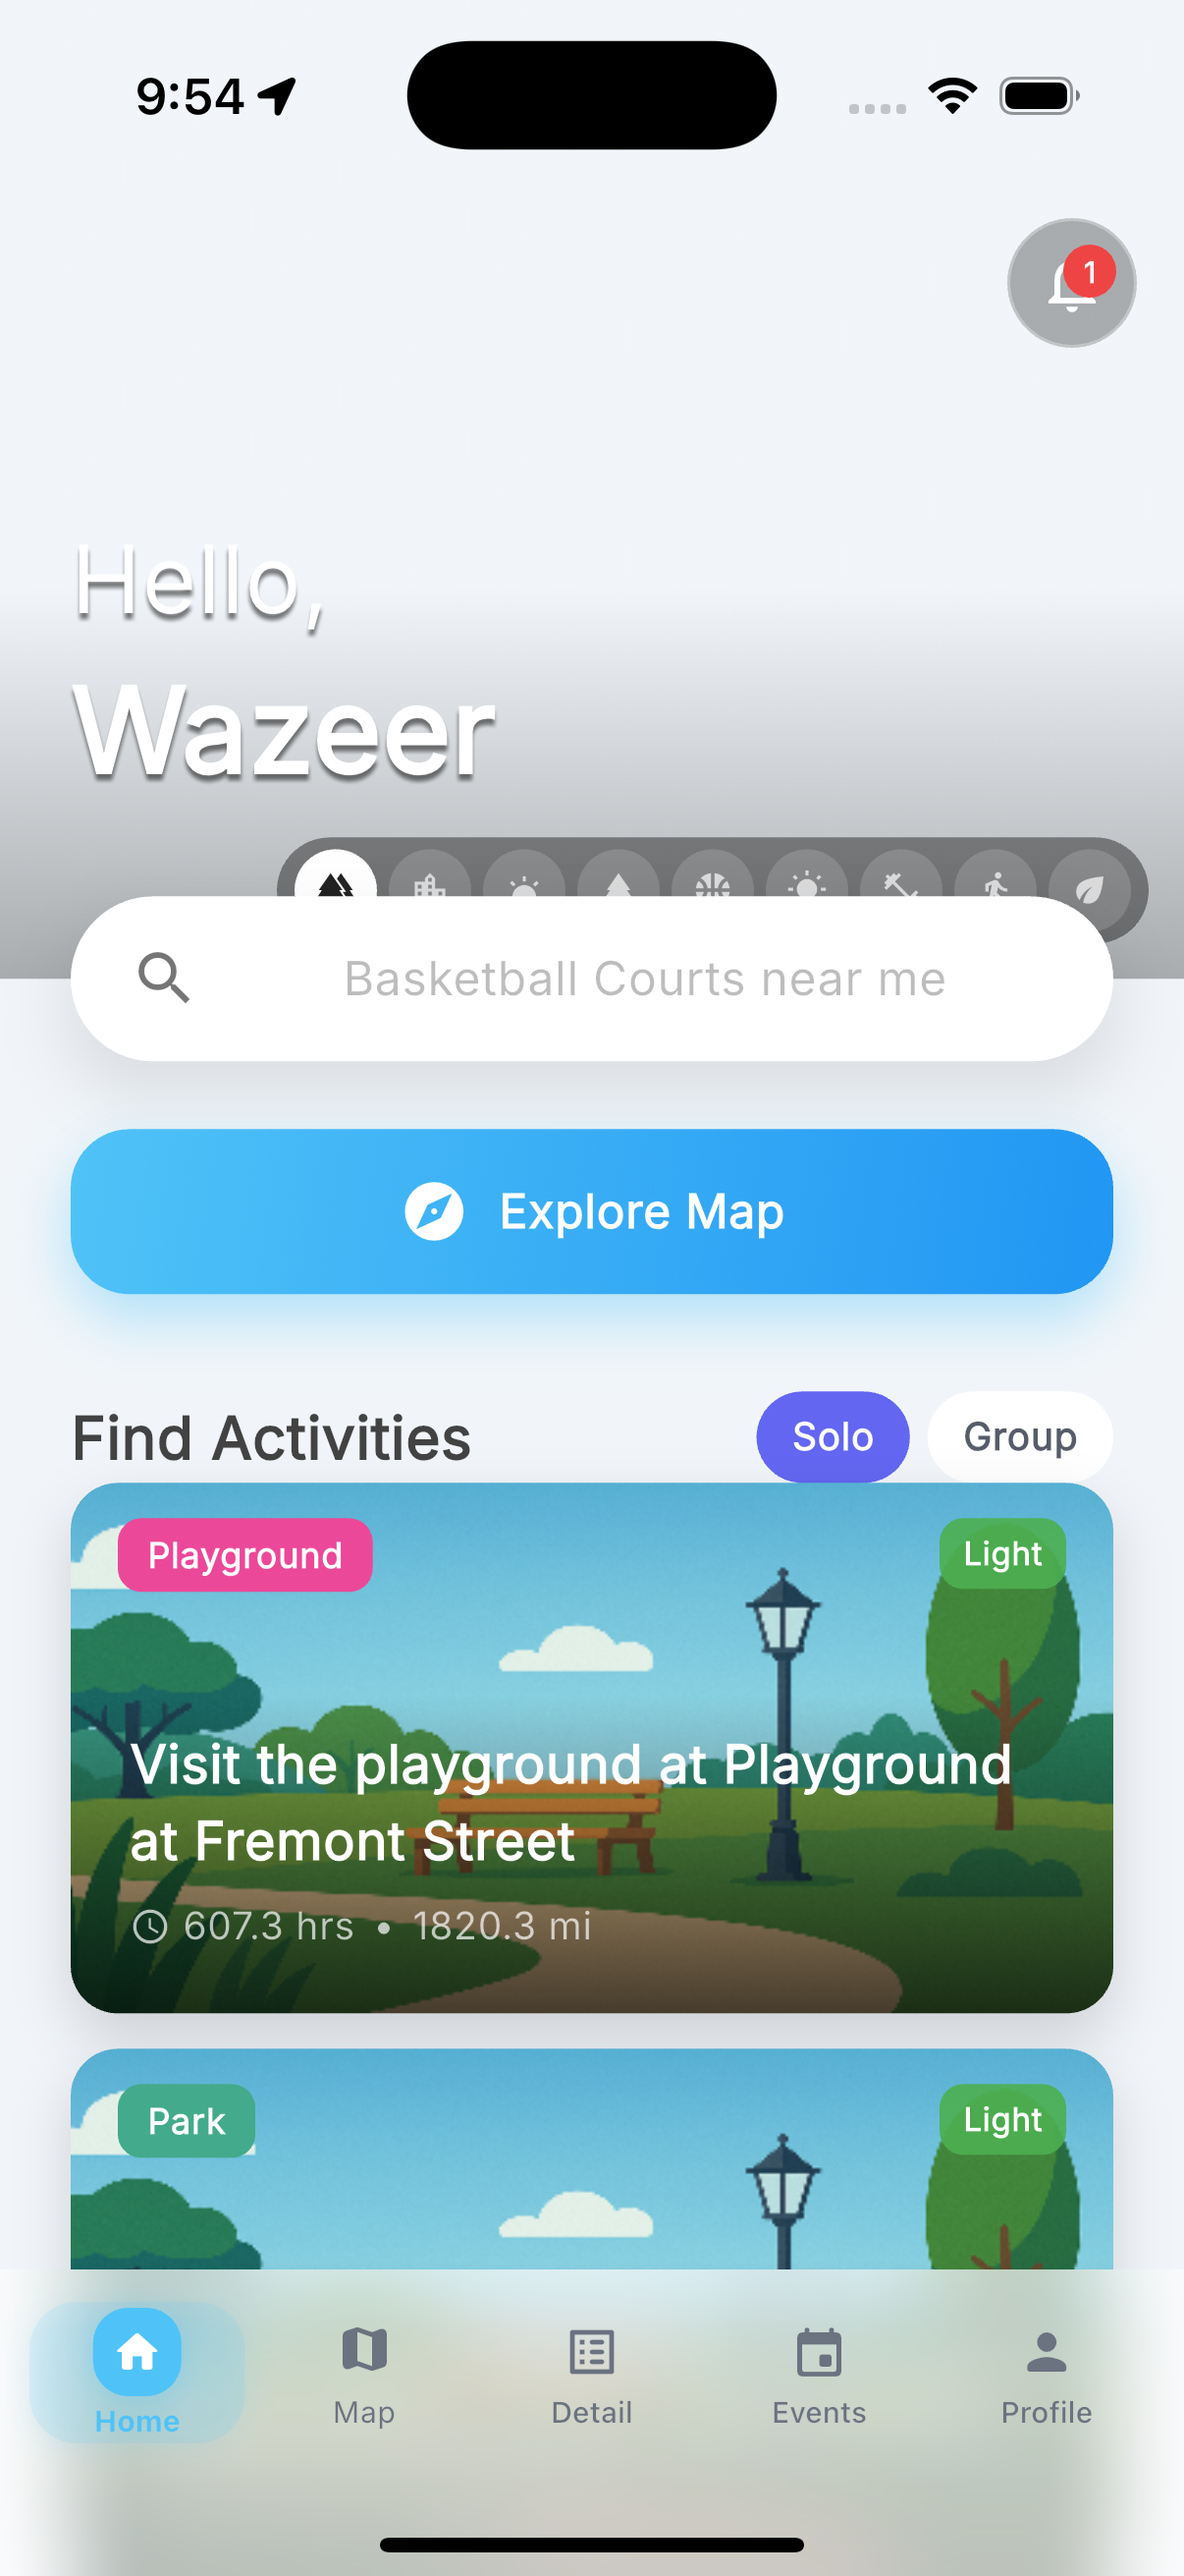
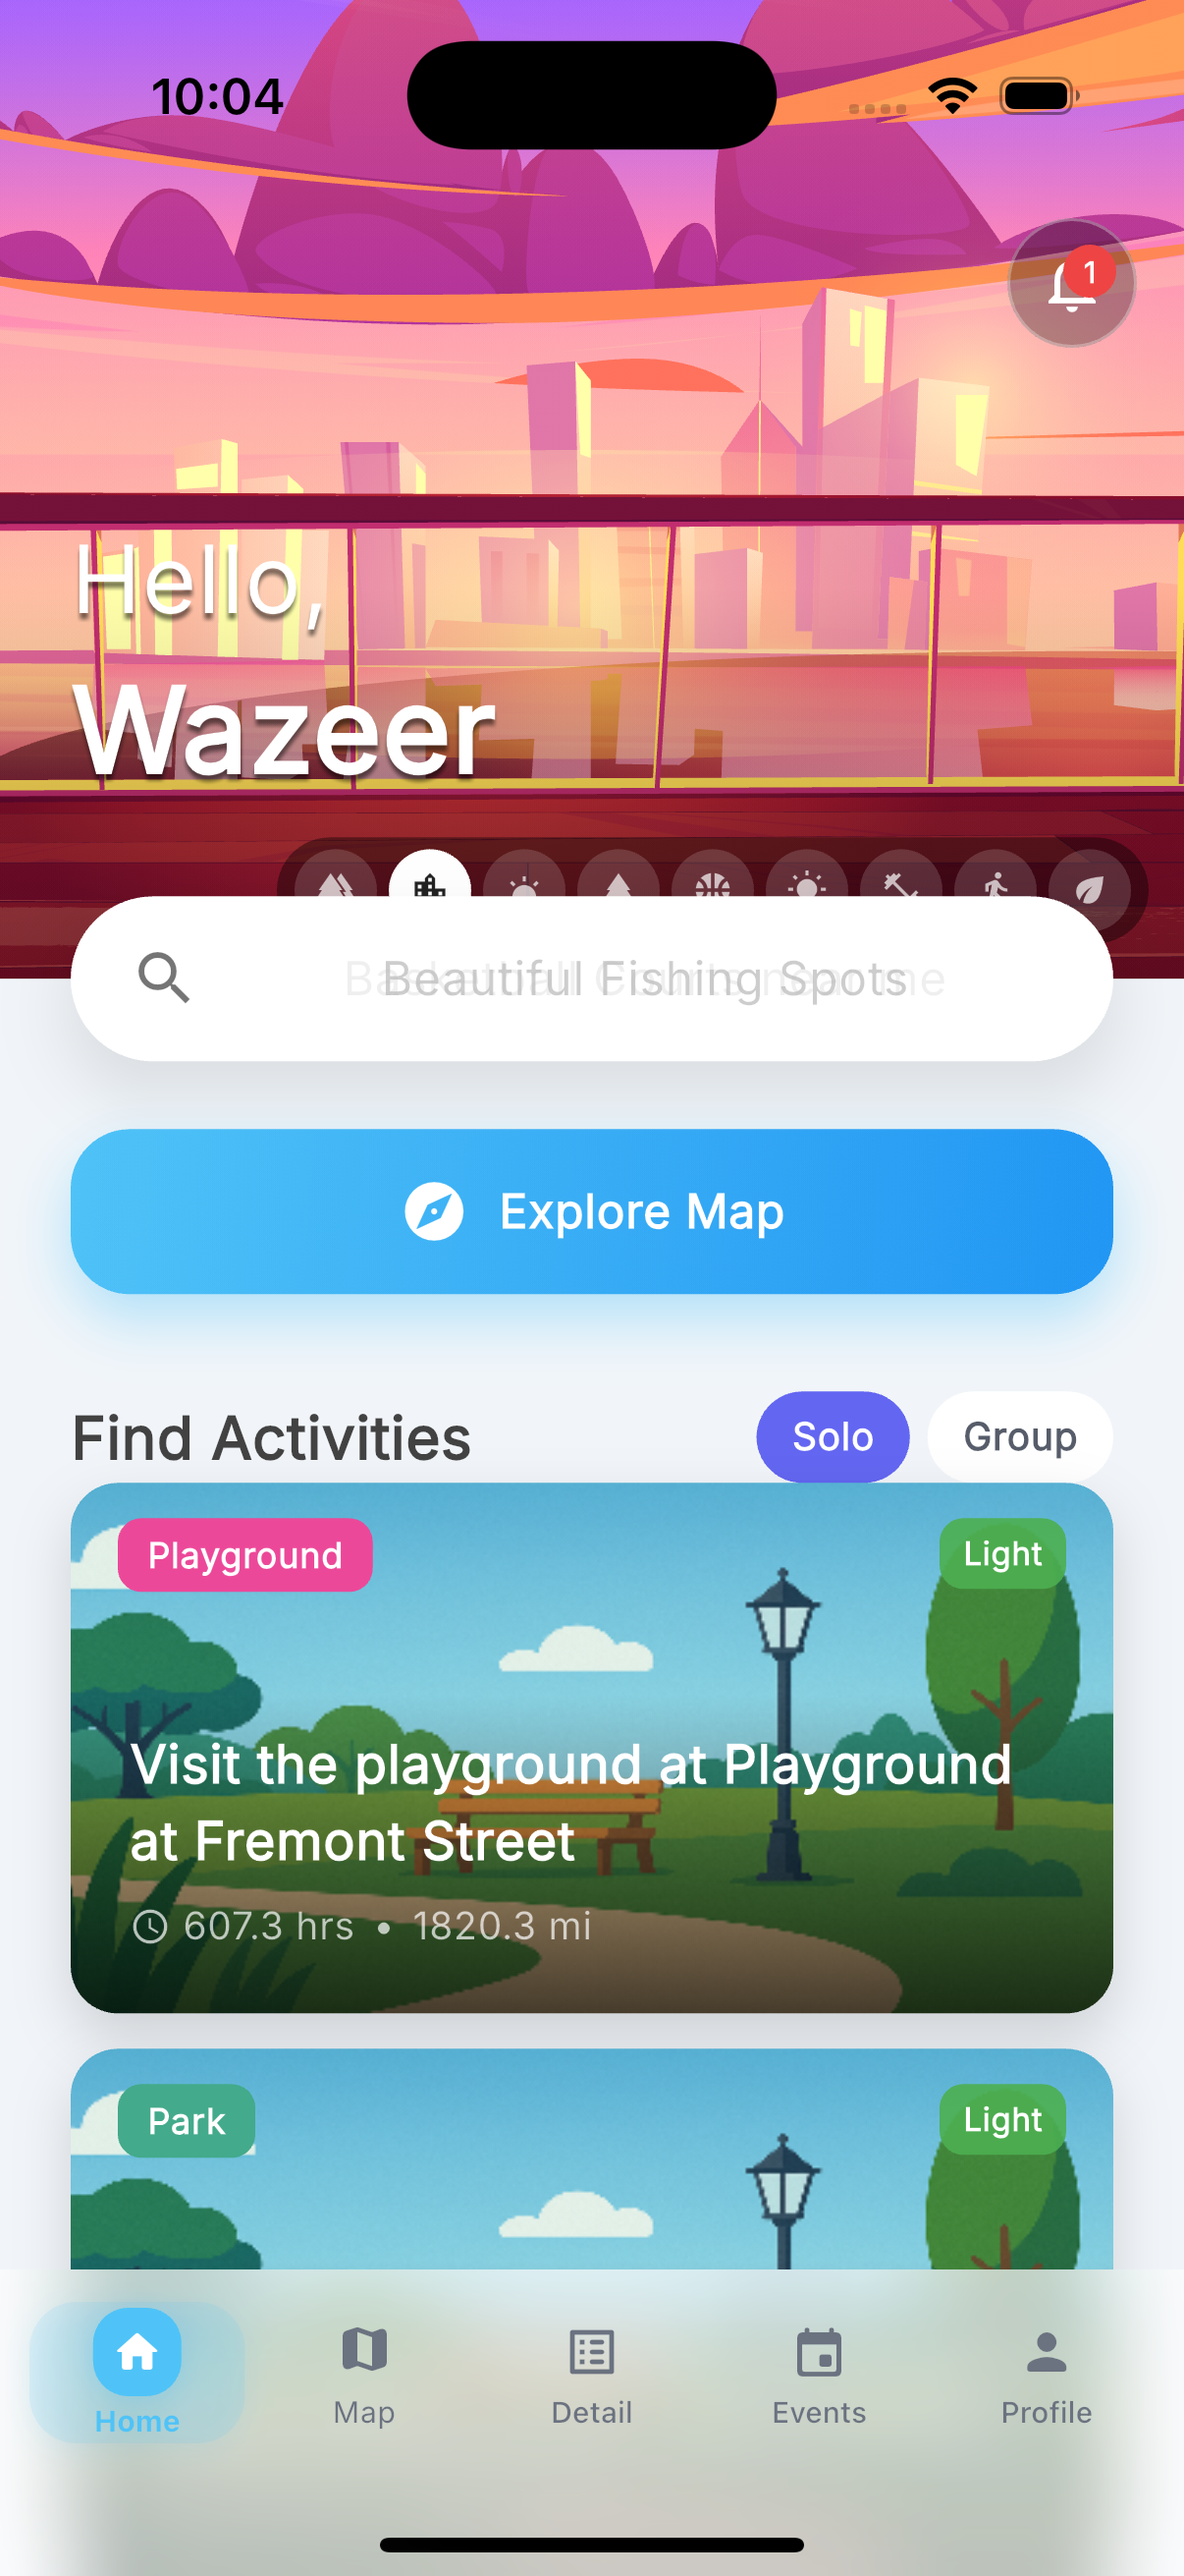
Update home screenshot (sunset cityscape), fix Gemini version to 3 Flash

diff --git a/README.md b/README.md
@@ -38,7 +38,7 @@ TRAX helps users discover 200+ sports facilities across 50+ parks — basketball
 
 - **Interactive Map** — Custom-styled Google Maps with emoji-based markers, clustering at zoom levels, and animated home location indicator
 - **Smart Filtering** — Filter by 15+ activity types (basketball, tennis, pickleball, soccer, volleyball, golf, swimming, biking, fishing, kayaking, etc.) with real-time marker updates
-- **AI-Enhanced Details** — Facility descriptions enriched by Gemini 1.5 Flash, extracting court counts, surface types, lighting, and hours from park district websites
+- **AI-Enhanced Details** — Facility descriptions enriched by Gemini 3 Flash, extracting court counts, surface types, lighting, and hours from park district websites
 - **Address Search** — OpenStreetMap Nominatim geocoding (zero API cost)
 - **Multiple Map Themes** — 4 custom map styles including City View, Adventure, and Illustrated
 - **Platform-Adaptive** — Google Maps on Android/Web, Apple Maps option on iOS
@@ -77,7 +77,7 @@ TRAX helps users discover 200+ sports facilities across 50+ parks — basketball
         ▼                ▼                ▼
   ┌──────────┐   ┌──────────────┐  ┌──────────────┐
   │ Supabase │   │ OpenStreetMap│  │   Gemini AI  │
-  │ (PostGIS)│   │  Nominatim   │  │  1.5 Flash   │
+  │ (PostGIS)│   │  Nominatim   │  │  3 Flash     │
   │ Database │   │  Geocoding   │  │  Enhancement │
   └──────────┘   └──────────────┘  └──────────────┘
 ```
@@ -91,7 +91,7 @@ TRAX helps users discover 200+ sports facilities across 50+ parks — basketball
 | **Maps** | Google Maps Flutter / Apple Maps | Platform-native rendering |
 | **Database** | Supabase + PostGIS | Geospatial queries with `ST_DWithin` proximity search |
 | **Geocoding** | OpenStreetMap Nominatim | Free, accurate for US addresses |
-| **AI** | Gemini 1.5 Flash | $0.0003/park for facility detail extraction |
+| **AI** | Gemini 3 Flash | $0.0003/park for facility detail extraction |
 | **Scraping** | Crawl4AI | Free web scraping for park district data |
 | **Deploy** | Vercel (web), Xcode (iOS) | Static hosting with SPA routing |
 
@@ -101,7 +101,7 @@ Activity data is sourced and enriched through a multi-stage pipeline:
 
 1. **Collection** — OpenStreetMap exports + Google Maps metadata for initial facility locations
 2. **Web Scraping** — Crawl4AI scrapes 6 sources per park simultaneously (park district sites, Pickleheads, Yelp, etc.)
-3. **AI Enhancement** — Gemini 1.5 Flash analyzes scraped content to extract facility counts, surface types, hours, lighting, and amenities
+3. **AI Enhancement** — Gemini 3 Flash analyzes scraped content to extract facility counts, surface types, hours, lighting, and amenities
 4. **Deduplication** — Smart matching algorithm prevents duplicate entries using name similarity + coordinate proximity
 5. **Storage** — Enriched data stored in Supabase with PostGIS POINT geometry for spatial indexing
 
